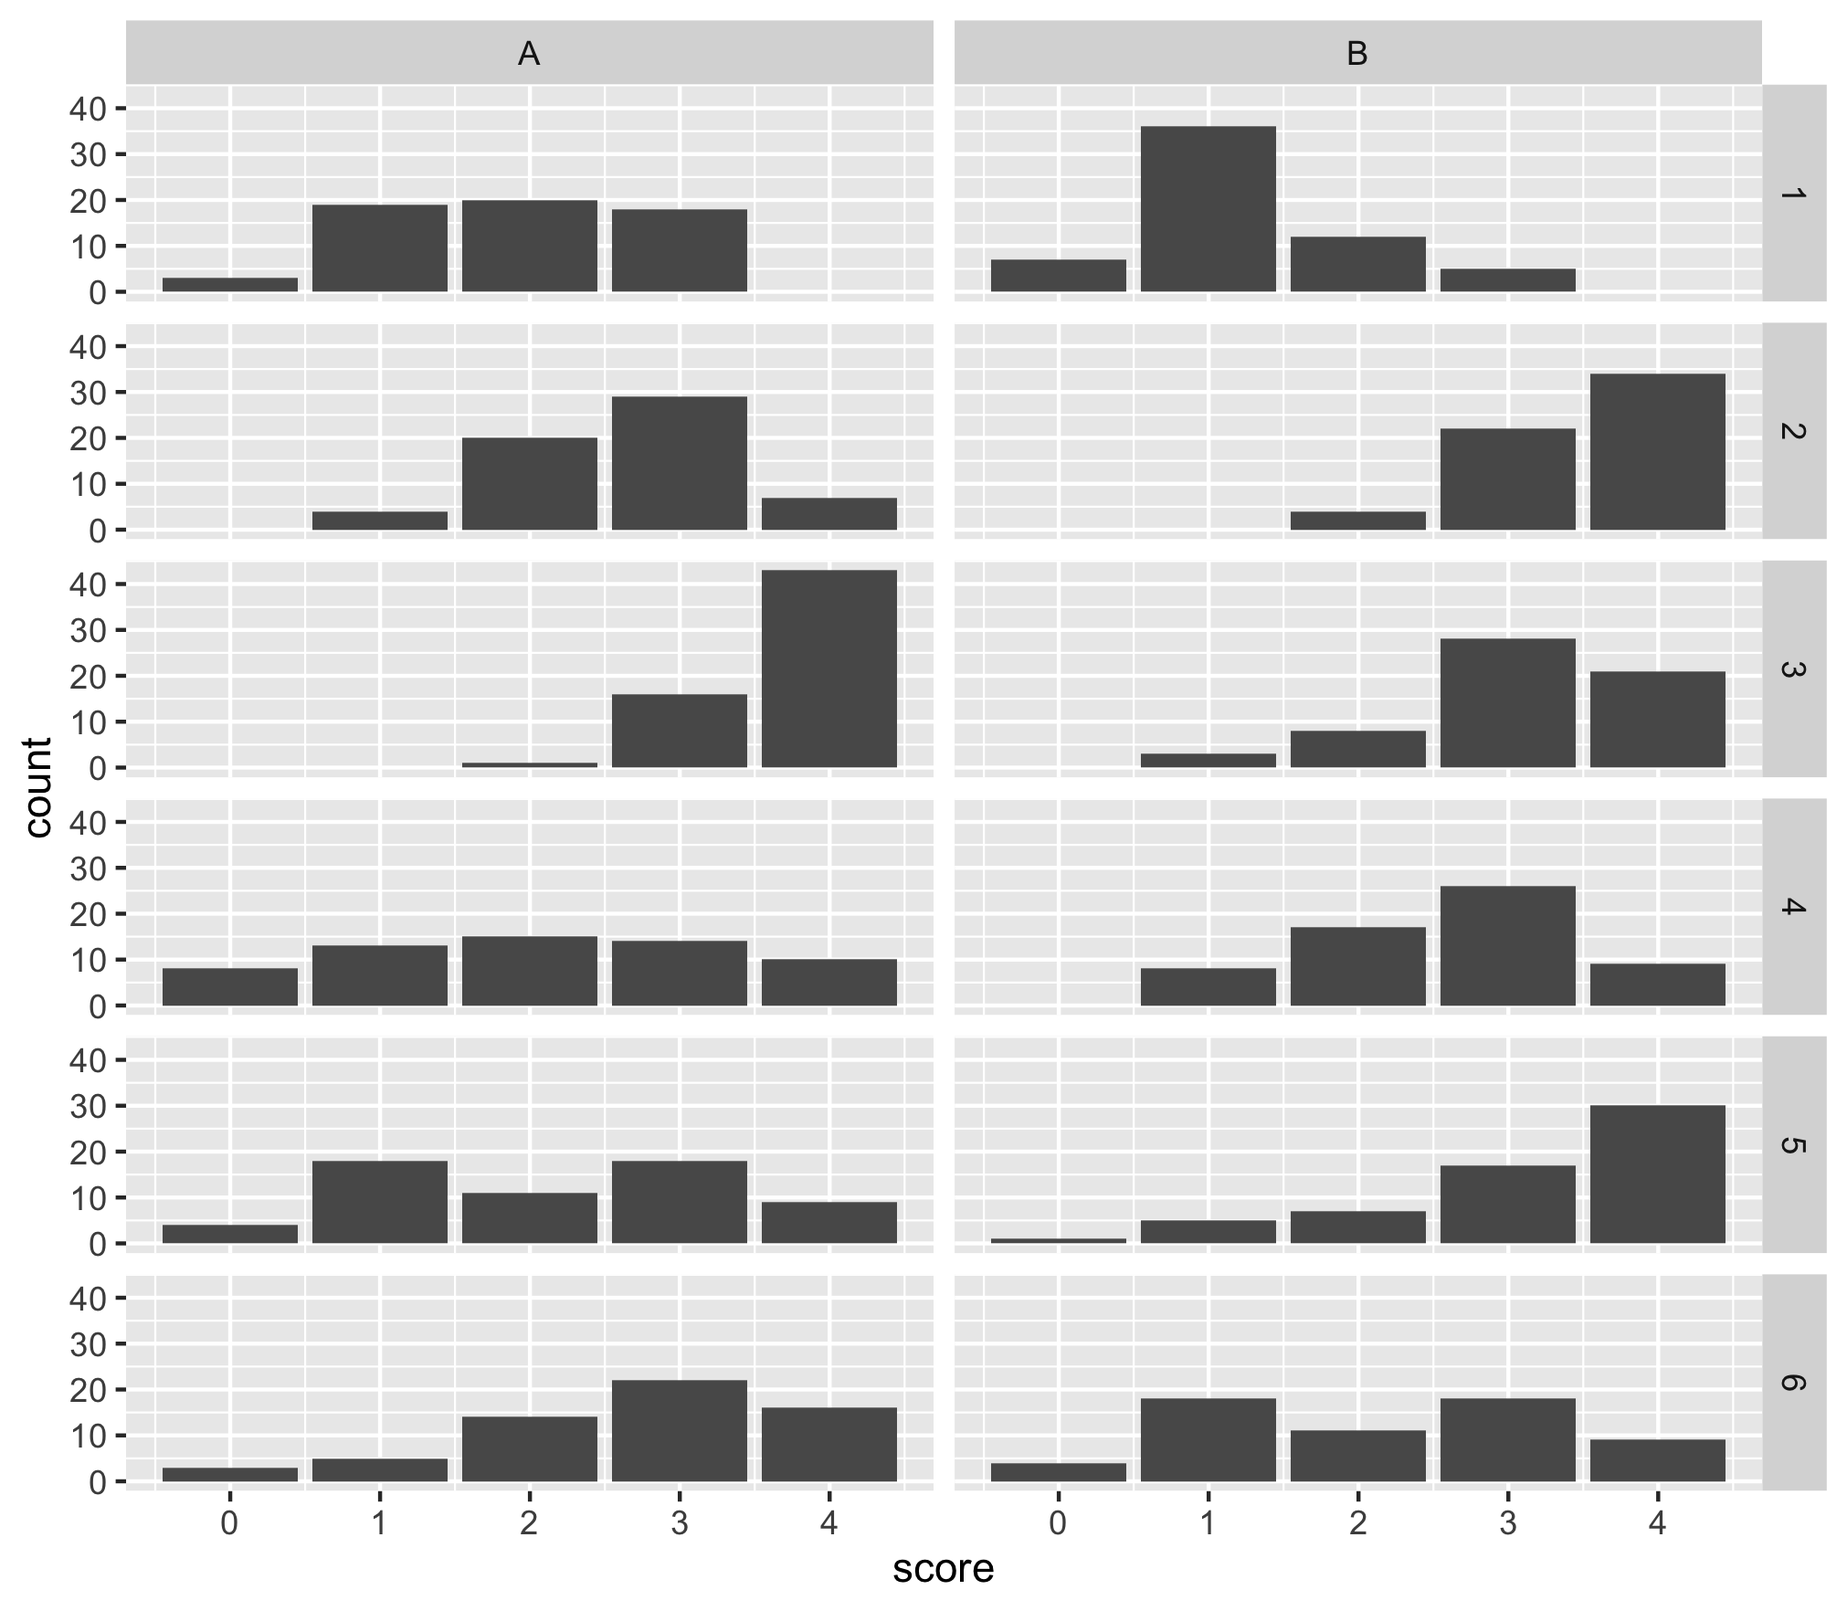
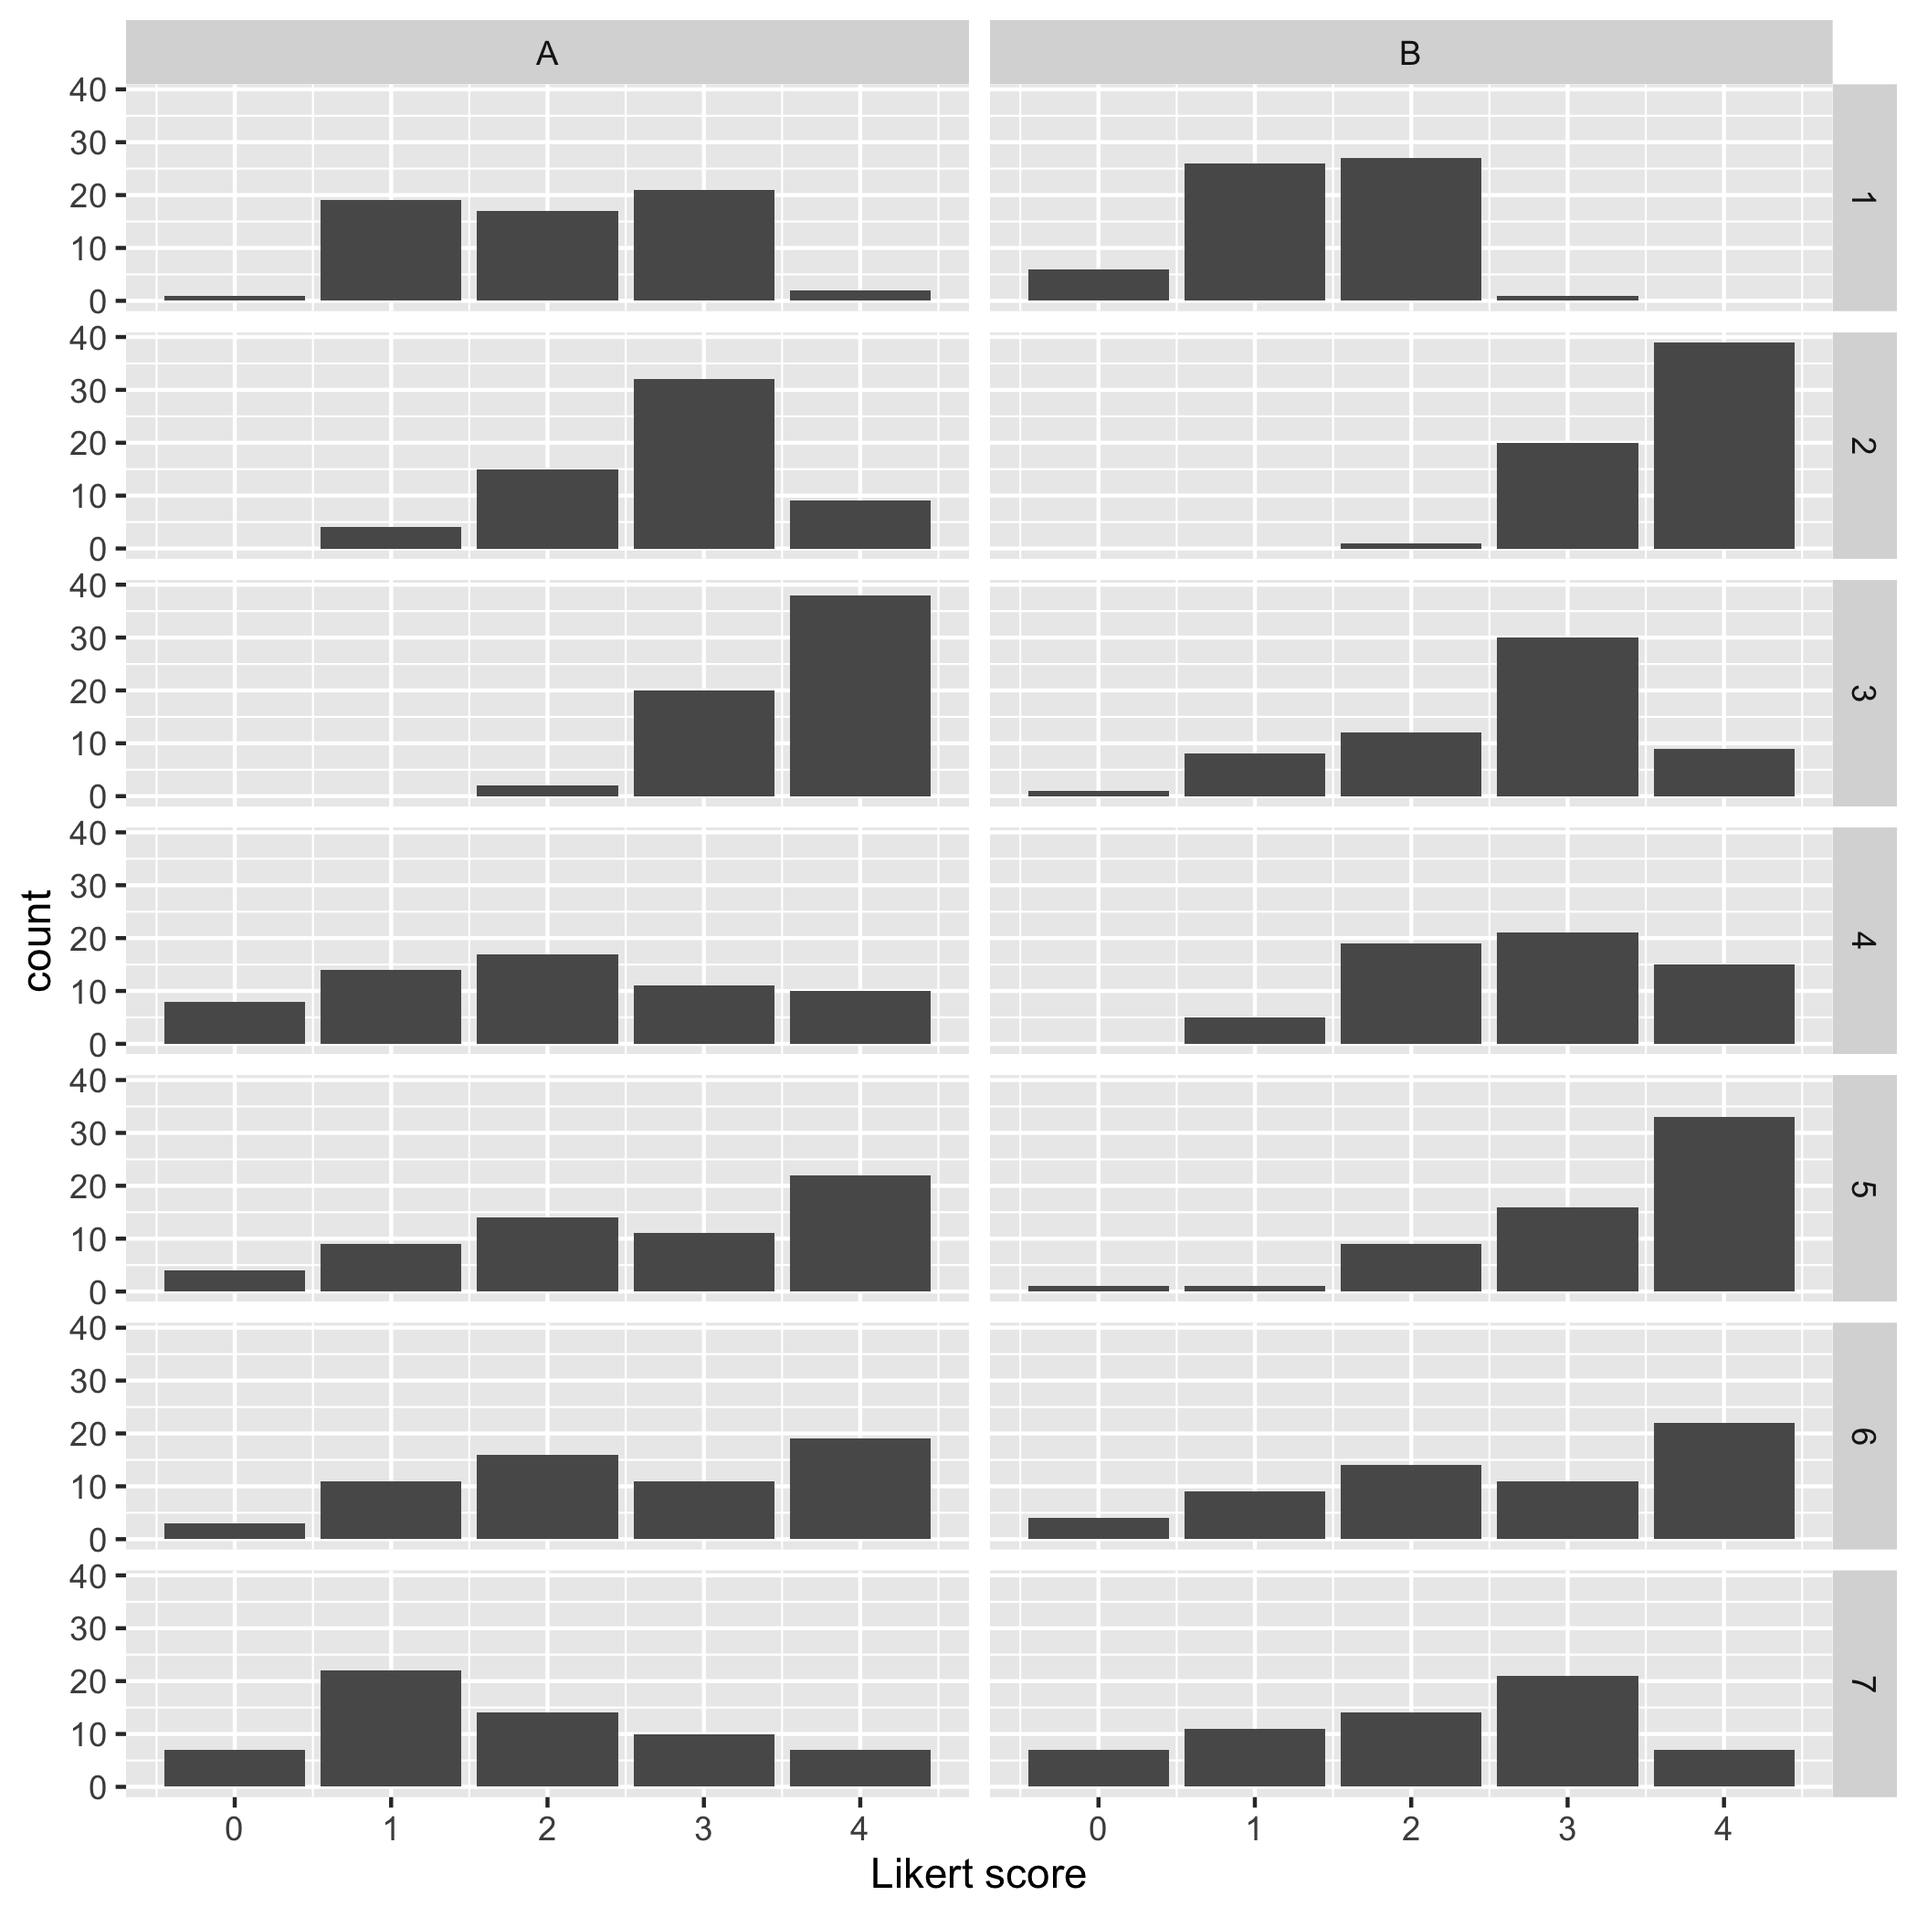
New outputs.

diff --git a/README.md b/README.md
@@ -31,13 +31,14 @@ Artino. J Grad Med Educ. 2013 Dec; 5(4): 541–542."
 
 
 ```
-question wilcoxon_p    ttest_p     catt_p      chi_p
-       1 0.00008753 0.00007020 0.00010058 0.00103063
-       2 0.00000001 0.00000000 0.00000001 0.00000026
-       3 0.00001583 0.00000899 0.00001415 0.00023930
-       4 0.02493287 0.01268945 0.01277263 0.01143268
-       5 0.00000512 0.00000393 0.00000805 0.00026705
-       6 0.01127898 0.01054839 0.01079998 0.03702442
+  question wilcoxon_p    ttest_p     catt_p      chi_p
+         1 0.00008602 0.00001416 0.00002332 0.00001884
+         2 0.00000000 0.00000000 0.00000000 0.00000003
+         3 0.00000000 0.00000000 0.00000001 0.00000028
+         4 0.00090077 0.00037737 0.00045219 0.00241743
+         5 0.00327405 0.00119031 0.00131765 0.01453107
+         6 0.61915745 0.66912503 0.66595722 0.95185781
+         7 0.07541019 0.09881224 0.09722275 0.10866653
 ```
 
 Plot of fake survey data (one question per row):
